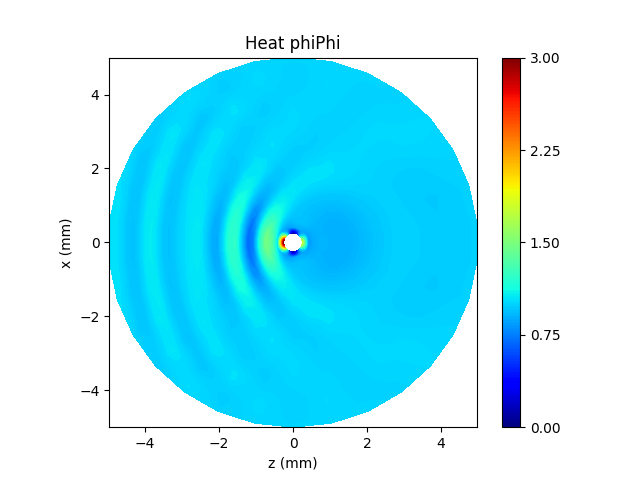
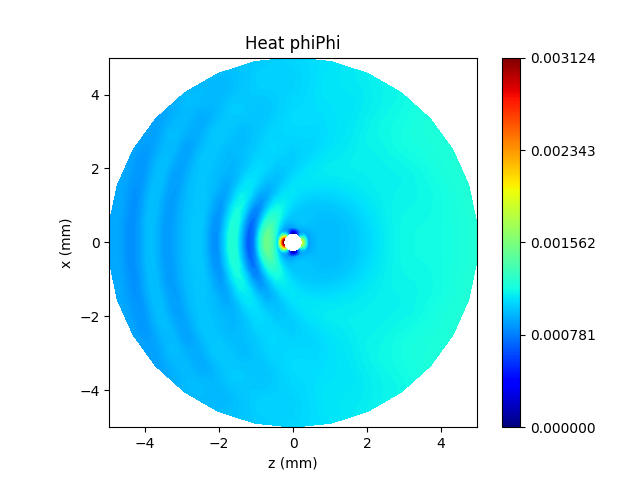
Debugging Q

diff --git a/equations/time_integrator.py b/equations/time_integrator.py
@@ -38,17 +38,17 @@ def get_dTdt(r, tha, dr, dtha, a, ptsInt, T, q, k, c, p):
         + (((r[:,-1]/dr) + (r[:,-1]**2/(dr**2))) * Ti1j[:,-1])
         + (((r[:,-1]**2/(dr**2)) - (r[:,-1]/dr)) * Tin1j[:,-1])
         + (((1/(dtha**2)) - (cot(tha[:,-1])/(2*dtha))) * Tijn1[:,-1])) + (q[:,-1]/(p[:,-1]*c[:,-1]))
-
+        
     # tha min: Equation 5
     dTdt[:, 0] = (k[:,0]/(p[:,0]*c[:,0])) * (1/(r[:,0]**2)) * (
         - ((((2*r[:,0]**2)/(dr**2)) + (cot(tha[:,0])/(2*dtha)) + (1/(dtha**2))) * T[:-1,1:-1][:,0])
         + (((r[:,0]/dr) + (r[:,0]**2/(dr**2))) * Ti1j[:,0])
         + (((r[:,0]**2/(dr**2)) - (r[:,0]/dr)) * Tin1j[:,0])
         + (((cot(tha[:,0])/(2*dtha)) + (1/(dtha**2))) * Tij1[:,0])) + (q[:,0]/(p[:,0]*c[:,0]))
-
+    
     # r a: Equation 3 right
     dTdt[a, :] = (k[a,:]/(p[a,:]*c[a,:])) * (1/(r[a,:]**2)) * (
-            ((((-3*r[a,:])/dr) + ((2*r[a,:])/(dr**2)) - ((3*cot(tha[a,:]))/(2*dtha)) + (2/(dtha**2))) * T[:-1, 1:-1][a,:])
+            ((((-3*r[a,:])/dr) + ((2*(r[a,:]**2))/(dr**2)) - ((3*cot(tha[a,:]))/(2*dtha)) + (2/(dtha**2))) * T[:-1, 1:-1][a,:])
         + ((((4*r[a,:])/dr) - ((5*r[a,:]**2)/(dr**2))) * Ti1j[a,:])
         + ((((4*r[a,:]**2)/(dr**2)) - (r[a,:]/dr)) * Ti2j[a,:])
         - (((r[a,:]**2)/(dr**2)) * Ti3j[a,:])
@@ -56,6 +56,13 @@ def get_dTdt(r, tha, dr, dtha, a, ptsInt, T, q, k, c, p):
         + (((4/(dtha**2)) - (cot(tha[a,:])/(2*dtha))) * Tij2[a,:])
         - ((1/(dtha**2)) * Tij3[a,:])) + (q[a, :]/(p[a, :]*c[a,:]))
     
+    print('dTdt[ptsInt] max = ')
+    print({__np.amax(dTdt[a, :])})
+    print('dTdt[ptsInt] min = ')
+    print(__np.amin(dTdt[a, :]))
+    print('dTdt[ptsInt] avg = ')
+    print(__np.average(dTdt[a, :]))
+
     # r a and tha min: 
 
     # r max: Should be handled as an internal point with Tinf padding
@@ -84,6 +91,8 @@ def get_T(r, tha, time, dr, dtha, dt, q1):
     num_additional_points = int(a/step_size)
     extra_points = __np.linspace(step_size, a-step_size, num_additional_points)
     r = __np.concatenate((extra_points, r))
+    print('r = ')
+    print(r)
 
     # Find the last index that is considered particle
     a_ind = __np.where(r == a)[0][0] # find r = a
@@ -119,7 +128,7 @@ def get_T(r, tha, time, dr, dtha, dt, q1):
     extra_points = __np.zeros((num_additional_points, tha.size))
     q = __np.concatenate((extra_points, q))
 
-    for t in range(0, time.size-1):
+    for t in range(0, 2): #time.size-1):
 
         # Pad with reflection of itself at tha = pi,0 boundaries
         T[:,0,t] = T[:,1,t]

diff --git a/main.py b/main.py
@@ -26,7 +26,7 @@ f = 500000
 N = 30
 
 v1 = 1100
-X1 = 0.024
+X1 = 240 #0.024
 v2 = 570
 p = 1030
 p2 = 1910
@@ -65,7 +65,8 @@ def worker(func, result_dict):
 
 if __name__ == "__main__":
     begin = time.time()
-
+    
+    #'''
     manager = multiprocessing.Manager()
     sigmas = manager.dict()
 
@@ -80,10 +81,23 @@ if __name__ == "__main__":
     for process in processes:
         process.join()
 
-    sigrr = 10*sigmas["get_sigrr"]
-    sigphiphi = 10*sigmas["get_sigphiphi"]
-    sigthatha = 10*sigmas["get_sigthatha"]
-    sigrtha = 10*sigmas["get_sigrtha"]
+    sigrr = sigmas["get_sigrr"]
+    sigphiphi = sigmas["get_sigphiphi"]
+    sigthatha = sigmas["get_sigthatha"]
+    sigrtha = sigmas["get_sigrtha"]
+
+    np.save("sigrr.npy", sigrr)
+    np.save("sigphiphi.npy", sigphiphi)
+    np.save("sigrtha.npy", sigrtha)
+    np.save("sigthatha.npy", sigthatha)
+    #'''
+
+    #'''
+    sigrr = np.load('sigrr.npy')
+    sigphiphi = np.load('sigphiphi.npy')
+    sigrtha = np.load('sigrtha.npy')
+    sigthatha = np.load('sigthatha.npy')
+    #'''
 
     # Stress Graphs
     graph_eq(sigrr, name = "rR")
@@ -100,7 +114,7 @@ if __name__ == "__main__":
 
     # Volumetric Heat Generation Graph
     start = time.time()
-    q1 = get_q1(sigrr, sigphiphi, sigthatha, sigrtha)
+    q1 = get_q1(sigrr, sigphiphi, sigthatha, sigrtha) / 100
     stop = time.time()
     print(f"q1 calculated in {stop - start:.2f} seconds...")
 
@@ -120,6 +134,8 @@ if __name__ == "__main__":
 
     #t array and increment
     dt = 0.01*(dr**2/gamma * 0.2)
+    print('dt = ')
+    print(dt)
     t = np.arange(0,0.5,dt)
 
     q1 = dt*(gamma/k1)*q1

diff --git a/equations/temperature.py b/equations/temperature.py
@@ -16,19 +16,20 @@ def get_q1(sigrr, sigphiphi, sigthatha, sigrtha):
     drtha = (angle(E1)) - (angle(1 + nu1))
     
     # This is the equation for Xi R R
-    xirr = (__np.sin(drr)) * (abs(sigrr)) * (abs((sigrr) - ((nu1) * ((sigthatha) + (sigphiphi)))))
-    
-    # This is the equation for Xi theta theta
+    xirr =     (__np.sin(drr))     * (abs(sigrr))     * (abs((sigrr)     - ((nu1) * ((sigthatha) + (sigphiphi)))))
     xithatha = (__np.sin(dthatha)) * (abs(sigthatha)) * (abs((sigthatha) - ((nu1) * ((sigrr) + (sigphiphi)))))
-    
-    # This is the equation for Xi phi phi
     xiphiphi = (__np.sin(dphiphi)) * (abs(sigphiphi)) * (abs((sigphiphi) - ((nu1) * ((sigrr) + (sigthatha)))))
-    
-    # This is the equation for Xi R theta
-    xirtha = (__np.sin(drtha)) * (abs(1 + nu1)) * ((abs(sigrtha)) * (abs(sigrtha)))
+    xirtha =   (__np.sin(drtha))   * (abs(1 + nu1))   * ((abs(sigrtha)) * (abs(sigrtha)))
     
     # This is the equation for q1
     q1 = ((w)/(2 * (abs(E1)))) * (xirr + xithatha + xiphiphi + xirtha)
+    
+    print('q1 max = ')
+    print({__np.amax(q1)})
+    print('q1 min = ')
+    print(__np.amin(q1))
+    print('q1 avg = ')
+    print(__np.average(q1))
 
     return q1
 

diff --git a/equations/graph.py b/equations/graph.py
@@ -16,19 +16,20 @@ Y = R * __np.sin(theta) * 1000
 
 cmap = __plt.get_cmap('jet')
 
-def graph_eq(sig, name=str(time.time())[7:-4], factor=10e6, dir="./pictures/"):
+def graph_eq(sig, name=str(time.time())[7:-4], factor=1e9, dir="./pictures/"):
     fig, ax = __plt.subplots()
     values = __np.abs(sig)
     ax.contourf(X, Y, values, 256)
 
-    vmax = __np.ceil(__np.amax(values) / factor)
+    vmax = __np.amax(values) / factor
     vmin = 0
 
-    norm = Normalize(vmin=vmin, vmax=vmax)
+    norm = Normalize(vmin=vmin, vmax=__np.amax(values) / factor)
     sm = cm.ScalarMappable(cmap=cmap, norm=norm)
     sm.set_array([])
 
     tickstep = vmax / 4  # Calculate step for 5 ticks starting from 0
+    print (tickstep)
 
     fig.colorbar(sm, ticks=__np.arange(0, vmax + tickstep, tickstep), ax=ax)
     __plt.gca().set_aspect("equal")

diff --git a/equations/parameters.py b/equations/parameters.py
@@ -21,27 +21,32 @@ def __set_variables():
     eta = p/p2
 
     #Tangents
-    tan1 = X1*v1*100/(__np.pi*8.686*10**6)
-    tan2 = X2*v2*100/(__np.pi*8.686*10**6)
+    tan1 = X1*v1/(__np.pi*8.686e6)
+    tan2 = X2*v2/(__np.pi*8.686e6)
 
     #mus
     u_e = v2**2*p
     u_v = u_e*tan2
     global u1
     u1 = u_e + u_v* 1j
+    print(f"mu = {u1}")
 
     #omega: angular frequency
     global w
     w = 2*__np.pi*f
+    print(f"w = {w}")
 
     #lambdas
     x_e = v1**2*p-2*u_e
     x_v = x_e * tan1
     x = x_e + x_v * 1j
+    print(f"lambda v = {x_v}")
+    print(f"lambda e = {x_e}")
 
     #
     global E1
     E1 = (u1*(3*x + 2*u1))/(x + u1)
+    print(f"E = {E1}")
 
     #
     global nu1
